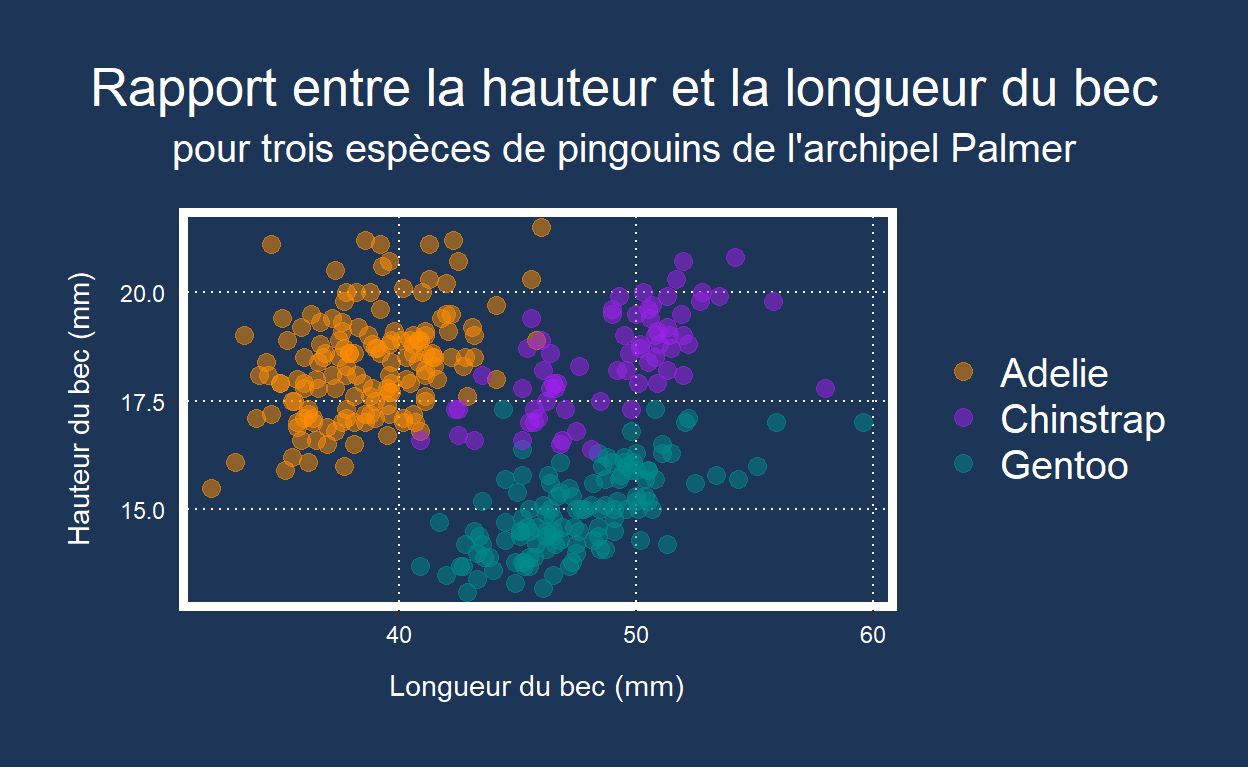
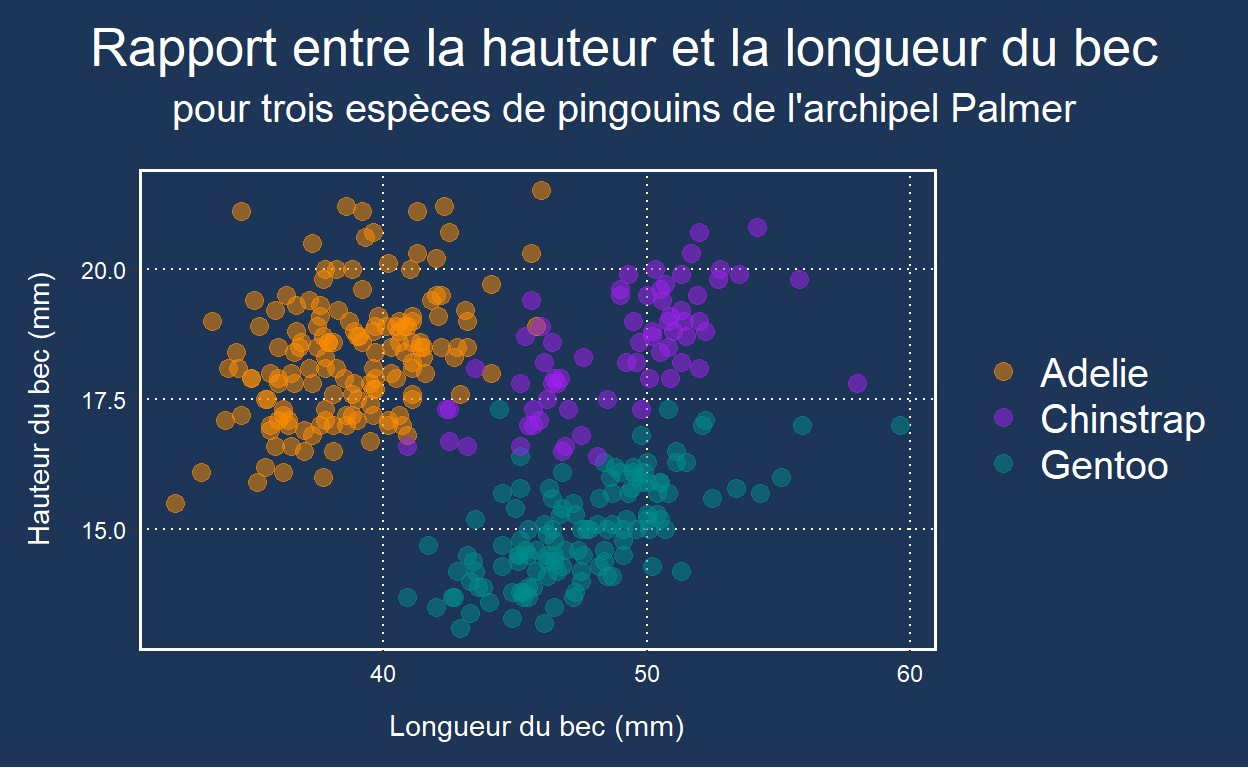
changed border width in theme parameters part in ggplot post

Changed region(s): [[0.0, 0.0312, 0.9688, 0.9062], [0.3125, 0.9375, 0.5625, 0.9688]]

diff --git a/_posts/visualiser-donnees-ggplot2/visualiser-donnees-ggplot2.html b/_posts/visualiser-donnees-ggplot2/visualiser-donnees-ggplot2.html
@@ -2662,7 +2662,7 @@ Nous allons utiliser <code>geom_bar()</code> pour visualiser le nombre de pingou
 <pre class="sourceCode r"><code class="sourceCode r"><span class='co'># Parametrer les elements du panel</span>
 <span class='op'>(</span><span class='va'>p1</span> <span class='op'>&lt;-</span> <span class='va'>p</span> <span class='op'>+</span>
   <span class='fu'><a href='https://ggplot2.tidyverse.org/reference/theme.html'>theme</a></span><span class='op'>(</span>panel.background <span class='op'>=</span> <span class='fu'><a href='https://ggplot2.tidyverse.org/reference/element.html'>element_rect</a></span><span class='op'>(</span>fill <span class='op'>=</span> <span class='st'>"#1d3557"</span>, colour <span class='op'>=</span> <span class='cn'>NA</span><span class='op'>)</span>,
-        panel.border <span class='op'>=</span> <span class='fu'><a href='https://ggplot2.tidyverse.org/reference/element.html'>element_rect</a></span><span class='op'>(</span>fill <span class='op'>=</span> <span class='cn'>NA</span>, colour <span class='op'>=</span> <span class='st'>"white"</span>, size <span class='op'>=</span> <span class='fl'>3</span><span class='op'>)</span>,
+        panel.border <span class='op'>=</span> <span class='fu'><a href='https://ggplot2.tidyverse.org/reference/element.html'>element_rect</a></span><span class='op'>(</span>fill <span class='op'>=</span> <span class='cn'>NA</span>, colour <span class='op'>=</span> <span class='st'>"white"</span>, size <span class='op'>=</span> <span class='fl'>1</span><span class='op'>)</span>,
         panel.grid.minor <span class='op'>=</span> <span class='fu'><a href='https://ggplot2.tidyverse.org/reference/element.html'>element_blank</a></span><span class='op'>(</span><span class='op'>)</span>,
         panel.grid.major <span class='op'>=</span> <span class='fu'><a href='https://ggplot2.tidyverse.org/reference/element.html'>element_line</a></span><span class='op'>(</span>colour <span class='op'>=</span> <span class='st'>"white"</span>,
                                         linetype <span class='op'>=</span> <span class='st'>"dotted"</span><span class='op'>)</span><span class='op'>)</span>
@@ -2683,11 +2683,11 @@ Nous allons utiliser <code>geom_bar()</code> pour visualiser le nombre de pingou
 <pre class="sourceCode r"><code class="sourceCode r"><span class='co'># Parametrer les elements du plot</span>
 <span class='op'>(</span><span class='va'>p2</span> <span class='op'>&lt;-</span> <span class='va'>p1</span> <span class='op'>+</span>
   <span class='fu'><a href='https://ggplot2.tidyverse.org/reference/theme.html'>theme</a></span><span class='op'>(</span>plot.background <span class='op'>=</span> <span class='fu'><a href='https://ggplot2.tidyverse.org/reference/element.html'>element_rect</a></span><span class='op'>(</span>fill <span class='op'>=</span> <span class='st'>"#1d3557"</span>, colour <span class='op'>=</span> <span class='cn'>NA</span><span class='op'>)</span>,
-        plot.margin <span class='op'>=</span> <span class='fu'><a href='https://ggplot2.tidyverse.org/reference/element.html'>margin</a></span><span class='op'>(</span>t <span class='op'>=</span> <span class='fl'>25</span>, r <span class='op'>=</span> <span class='fl'>25</span>, b <span class='op'>=</span> <span class='fl'>25</span>, l <span class='op'>=</span> <span class='fl'>25</span><span class='op'>)</span>,
+        plot.margin <span class='op'>=</span> <span class='fu'><a href='https://ggplot2.tidyverse.org/reference/element.html'>margin</a></span><span class='op'>(</span>t <span class='op'>=</span> <span class='fl'>10</span>, r <span class='op'>=</span> <span class='fl'>10</span>, b <span class='op'>=</span> <span class='fl'>10</span>, l <span class='op'>=</span> <span class='fl'>10</span><span class='op'>)</span>,
         plot.title <span class='op'>=</span> <span class='fu'><a href='https://ggplot2.tidyverse.org/reference/element.html'>element_text</a></span><span class='op'>(</span>colour <span class='op'>=</span> <span class='st'>"white"</span>, size <span class='op'>=</span> <span class='fl'>20</span>,
                                   hjust <span class='op'>=</span> <span class='fl'>0.5</span><span class='op'>)</span>,
         plot.subtitle <span class='op'>=</span> <span class='fu'><a href='https://ggplot2.tidyverse.org/reference/element.html'>element_text</a></span><span class='op'>(</span>colour <span class='op'>=</span> <span class='st'>"white"</span>, size <span class='op'>=</span> <span class='fl'>15</span>,
-                                     hjust <span class='op'>=</span> <span class='fl'>0.5</span>, margin <span class='op'>=</span> <span class='fu'><a href='https://ggplot2.tidyverse.org/reference/element.html'>margin</a></span><span class='op'>(</span>b <span class='op'>=</span> <span class='fl'>15</span><span class='op'>)</span><span class='op'>)</span><span class='op'>)</span>
+                                     hjust <span class='op'>=</span> <span class='fl'>0.5</span>, margin <span class='op'>=</span> <span class='fu'><a href='https://ggplot2.tidyverse.org/reference/element.html'>margin</a></span><span class='op'>(</span>b <span class='op'>=</span> <span class='fl'>5</span><span class='op'>)</span><span class='op'>)</span><span class='op'>)</span>
 <span class='op'>)</span>
 </code></pre>
 </div>
@@ -2699,7 +2699,7 @@ Nous allons utiliser <code>geom_bar()</code> pour visualiser le nombre de pingou
 <pre class="sourceCode r"><code class="sourceCode r"><span class='co'># Aligner le titre et le sous-titre sur le centre de la zone plot</span>
 <span class='op'>(</span><span class='va'>p2</span> <span class='op'>&lt;-</span> <span class='va'>p1</span> <span class='op'>+</span>
   <span class='fu'><a href='https://ggplot2.tidyverse.org/reference/theme.html'>theme</a></span><span class='op'>(</span>plot.background <span class='op'>=</span> <span class='fu'><a href='https://ggplot2.tidyverse.org/reference/element.html'>element_rect</a></span><span class='op'>(</span>fill <span class='op'>=</span> <span class='st'>"#1d3557"</span>, colour <span class='op'>=</span> <span class='cn'>NA</span><span class='op'>)</span>,
-        plot.margin <span class='op'>=</span> <span class='fu'><a href='https://ggplot2.tidyverse.org/reference/element.html'>margin</a></span><span class='op'>(</span>t <span class='op'>=</span> <span class='fl'>25</span>, r <span class='op'>=</span> <span class='fl'>25</span>, b <span class='op'>=</span> <span class='fl'>25</span>, l <span class='op'>=</span> <span class='fl'>25</span><span class='op'>)</span>,
+        plot.margin <span class='op'>=</span> <span class='fu'><a href='https://ggplot2.tidyverse.org/reference/element.html'>margin</a></span><span class='op'>(</span>t <span class='op'>=</span> <span class='fl'>10</span>, r <span class='op'>=</span> <span class='fl'>10</span>, b <span class='op'>=</span> <span class='fl'>10</span>, l <span class='op'>=</span> <span class='fl'>10</span><span class='op'>)</span>,
         plot.title <span class='op'>=</span> <span class='fu'><a href='https://ggplot2.tidyverse.org/reference/element.html'>element_text</a></span><span class='op'>(</span>colour <span class='op'>=</span> <span class='st'>"white"</span>, size <span class='op'>=</span> <span class='fl'>20</span>,
                                   hjust <span class='op'>=</span> <span class='fl'>0.5</span><span class='op'>)</span>,
         plot.title.position <span class='op'>=</span> <span class='st'>"plot"</span>,

diff --git a/_site/posts/visualiser-donnees-ggplot2/index.html b/_site/posts/visualiser-donnees-ggplot2/index.html
@@ -3369,7 +3369,7 @@ Nous allons utiliser <code>geom_bar()</code> pour visualiser le nombre de pingou
 <pre class="sourceCode r"><code class="sourceCode r"><span class='co'># Parametrer les elements du panel</span>
 <span class='op'>(</span><span class='va'>p1</span> <span class='op'>&lt;-</span> <span class='va'>p</span> <span class='op'>+</span>
   <span class='fu'><a href='https://ggplot2.tidyverse.org/reference/theme.html'>theme</a></span><span class='op'>(</span>panel.background <span class='op'>=</span> <span class='fu'><a href='https://ggplot2.tidyverse.org/reference/element.html'>element_rect</a></span><span class='op'>(</span>fill <span class='op'>=</span> <span class='st'>"#1d3557"</span>, colour <span class='op'>=</span> <span class='cn'>NA</span><span class='op'>)</span>,
-        panel.border <span class='op'>=</span> <span class='fu'><a href='https://ggplot2.tidyverse.org/reference/element.html'>element_rect</a></span><span class='op'>(</span>fill <span class='op'>=</span> <span class='cn'>NA</span>, colour <span class='op'>=</span> <span class='st'>"white"</span>, size <span class='op'>=</span> <span class='fl'>3</span><span class='op'>)</span>,
+        panel.border <span class='op'>=</span> <span class='fu'><a href='https://ggplot2.tidyverse.org/reference/element.html'>element_rect</a></span><span class='op'>(</span>fill <span class='op'>=</span> <span class='cn'>NA</span>, colour <span class='op'>=</span> <span class='st'>"white"</span>, size <span class='op'>=</span> <span class='fl'>1</span><span class='op'>)</span>,
         panel.grid.minor <span class='op'>=</span> <span class='fu'><a href='https://ggplot2.tidyverse.org/reference/element.html'>element_blank</a></span><span class='op'>(</span><span class='op'>)</span>,
         panel.grid.major <span class='op'>=</span> <span class='fu'><a href='https://ggplot2.tidyverse.org/reference/element.html'>element_line</a></span><span class='op'>(</span>colour <span class='op'>=</span> <span class='st'>"white"</span>,
                                         linetype <span class='op'>=</span> <span class='st'>"dotted"</span><span class='op'>)</span><span class='op'>)</span>
@@ -3390,11 +3390,11 @@ Nous allons utiliser <code>geom_bar()</code> pour visualiser le nombre de pingou
 <pre class="sourceCode r"><code class="sourceCode r"><span class='co'># Parametrer les elements du plot</span>
 <span class='op'>(</span><span class='va'>p2</span> <span class='op'>&lt;-</span> <span class='va'>p1</span> <span class='op'>+</span>
   <span class='fu'><a href='https://ggplot2.tidyverse.org/reference/theme.html'>theme</a></span><span class='op'>(</span>plot.background <span class='op'>=</span> <span class='fu'><a href='https://ggplot2.tidyverse.org/reference/element.html'>element_rect</a></span><span class='op'>(</span>fill <span class='op'>=</span> <span class='st'>"#1d3557"</span>, colour <span class='op'>=</span> <span class='cn'>NA</span><span class='op'>)</span>,
-        plot.margin <span class='op'>=</span> <span class='fu'><a href='https://ggplot2.tidyverse.org/reference/element.html'>margin</a></span><span class='op'>(</span>t <span class='op'>=</span> <span class='fl'>25</span>, r <span class='op'>=</span> <span class='fl'>25</span>, b <span class='op'>=</span> <span class='fl'>25</span>, l <span class='op'>=</span> <span class='fl'>25</span><span class='op'>)</span>,
+        plot.margin <span class='op'>=</span> <span class='fu'><a href='https://ggplot2.tidyverse.org/reference/element.html'>margin</a></span><span class='op'>(</span>t <span class='op'>=</span> <span class='fl'>10</span>, r <span class='op'>=</span> <span class='fl'>10</span>, b <span class='op'>=</span> <span class='fl'>10</span>, l <span class='op'>=</span> <span class='fl'>10</span><span class='op'>)</span>,
         plot.title <span class='op'>=</span> <span class='fu'><a href='https://ggplot2.tidyverse.org/reference/element.html'>element_text</a></span><span class='op'>(</span>colour <span class='op'>=</span> <span class='st'>"white"</span>, size <span class='op'>=</span> <span class='fl'>20</span>,
                                   hjust <span class='op'>=</span> <span class='fl'>0.5</span><span class='op'>)</span>,
         plot.subtitle <span class='op'>=</span> <span class='fu'><a href='https://ggplot2.tidyverse.org/reference/element.html'>element_text</a></span><span class='op'>(</span>colour <span class='op'>=</span> <span class='st'>"white"</span>, size <span class='op'>=</span> <span class='fl'>15</span>,
-                                     hjust <span class='op'>=</span> <span class='fl'>0.5</span>, margin <span class='op'>=</span> <span class='fu'><a href='https://ggplot2.tidyverse.org/reference/element.html'>margin</a></span><span class='op'>(</span>b <span class='op'>=</span> <span class='fl'>15</span><span class='op'>)</span><span class='op'>)</span><span class='op'>)</span>
+                                     hjust <span class='op'>=</span> <span class='fl'>0.5</span>, margin <span class='op'>=</span> <span class='fu'><a href='https://ggplot2.tidyverse.org/reference/element.html'>margin</a></span><span class='op'>(</span>b <span class='op'>=</span> <span class='fl'>5</span><span class='op'>)</span><span class='op'>)</span><span class='op'>)</span>
 <span class='op'>)</span>
 </code></pre>
 </div>
@@ -3406,7 +3406,7 @@ Nous allons utiliser <code>geom_bar()</code> pour visualiser le nombre de pingou
 <pre class="sourceCode r"><code class="sourceCode r"><span class='co'># Aligner le titre et le sous-titre sur le centre de la zone plot</span>
 <span class='op'>(</span><span class='va'>p2</span> <span class='op'>&lt;-</span> <span class='va'>p1</span> <span class='op'>+</span>
   <span class='fu'><a href='https://ggplot2.tidyverse.org/reference/theme.html'>theme</a></span><span class='op'>(</span>plot.background <span class='op'>=</span> <span class='fu'><a href='https://ggplot2.tidyverse.org/reference/element.html'>element_rect</a></span><span class='op'>(</span>fill <span class='op'>=</span> <span class='st'>"#1d3557"</span>, colour <span class='op'>=</span> <span class='cn'>NA</span><span class='op'>)</span>,
-        plot.margin <span class='op'>=</span> <span class='fu'><a href='https://ggplot2.tidyverse.org/reference/element.html'>margin</a></span><span class='op'>(</span>t <span class='op'>=</span> <span class='fl'>25</span>, r <span class='op'>=</span> <span class='fl'>25</span>, b <span class='op'>=</span> <span class='fl'>25</span>, l <span class='op'>=</span> <span class='fl'>25</span><span class='op'>)</span>,
+        plot.margin <span class='op'>=</span> <span class='fu'><a href='https://ggplot2.tidyverse.org/reference/element.html'>margin</a></span><span class='op'>(</span>t <span class='op'>=</span> <span class='fl'>10</span>, r <span class='op'>=</span> <span class='fl'>10</span>, b <span class='op'>=</span> <span class='fl'>10</span>, l <span class='op'>=</span> <span class='fl'>10</span><span class='op'>)</span>,
         plot.title <span class='op'>=</span> <span class='fu'><a href='https://ggplot2.tidyverse.org/reference/element.html'>element_text</a></span><span class='op'>(</span>colour <span class='op'>=</span> <span class='st'>"white"</span>, size <span class='op'>=</span> <span class='fl'>20</span>,
                                   hjust <span class='op'>=</span> <span class='fl'>0.5</span><span class='op'>)</span>,
         plot.title.position <span class='op'>=</span> <span class='st'>"plot"</span>,
